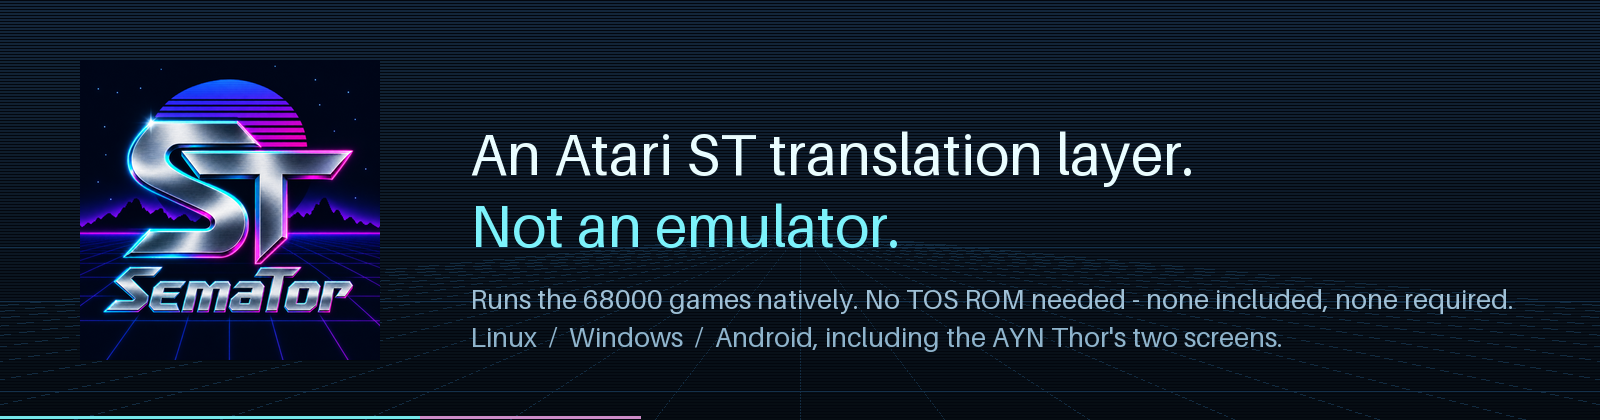
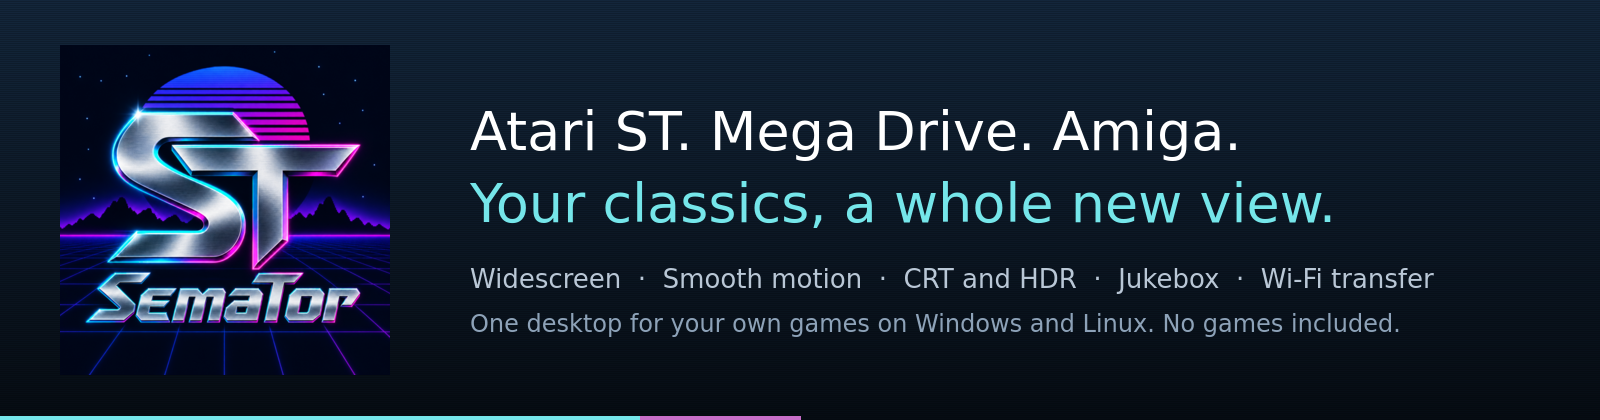
Refresh the GitHub front page: Atari ST, Mega Drive and Amiga, fresh screenshots

diff --git a/README.md b/README.md
@@ -2,163 +2,100 @@
 
 # SemaTor
 
-**Atari ST games. A whole new view.**
+**Atari ST, Mega Drive and Amiga. Your classics, a whole new view.**
 
-Play your Atari ST favourites on **Windows and Linux** with **widescreen enhancements, smooth motion, CRT bezels, Auto HDR and run-ahead**. Bring your own game disks; no Atari TOS ROM is required. Choose enhancements per game, save your progress and jump back in. Feature support varies by game, disk edition and display hardware.
+SemaTor is one desktop for your own retro games on **Windows and Linux**. It runs **Atari ST** games, **Mega Drive / Genesis** games (SemaDrive) and, as an experimental preview, **Amiga** games (SemaBench). Many games get optional enhancements: **widescreen, smooth motion at your screen's refresh rate, sharper 3D, CRT looks and HDR**. Every enhancement starts off, is remembered per game, and the original game is always one switch away.
+
+Bring your own games. None are included, and no Atari TOS ROM or Amiga Kickstart ROM file is needed. Feature support varies by game, edition and display hardware.
 
 Created by David Baron with AI assistance in development, research, documentation and this website.
 
 [Download the public preview](https://github.com/SirBaron/SemaTor/releases) · [Website](https://sirbaron.github.io/SemaTor/) · [Discord](https://discord.gg/DdHfSGrdFc) · [YouTube](https://www.youtube.com/@SemaTorST) · [Report a problem](https://github.com/SirBaron/SemaTor/issues)
 
-**1.1.611 gives Wi-Fi sharing a movable, resizable desktop window, clear collection filters, enhanced-game selection and explicit save-conflict choices. Phones retain the full-screen flow.** This repository hosts the website, public documentation and issue tracker. SemaTor's source is private.
+**1.1.611 public preview: Windows x64, Linux x86-64 and Linux ARM64.** This repository holds the website, public documentation and issue tracker. SemaTor's source is private. See the [release notes](./CHANGELOG.md) for what changed and the known limits.
 
-**1.1.611 puts Wi-Fi sharing in a movable, resizable desktop window with matching colors, visible device scanning and Scan now. Phones retain the full-screen flow.** Android builds remain private tests; no physical-device validation is claimed.
+![SemaOS, the Atari ST desktop, with a game's Details page](./semaos-desktop.png)
+*SemaOS on the Atari ST home. Your own disks wear handwritten labels; no games are bundled.*
 
-**Updating:** in SemaOS, the button at the top right of the menu bar shows where you are - green **Up to date**, or gold **Update available** when a new SemaTor is out. Select it to download (with progress), then **Install update and restart**. The classic library has the same button in its header, and **Library Settings → Updates** for the daily check. Signed Linux/Windows updates preserve your games, saves, settings and custom artwork. GitHub downloads remain available. Version 1.1.604 adds a larger SemaBench theme package; update from 1.1.603 for the theme bundle. Users on older versions can install the full public-preview ZIP and keep their User folder. The optional Dungeon Master artwork add-on is separate.
+## Three systems, one home
 
-[Browse every current game enhancement](https://sirbaron.github.io/SemaTor/games/index.html) — searchable by game and feature, with cheats kept separate.
+Atari ST, Mega Drive and Amiga share one app. Each has its own desktop and look, and all share the same library, Jukebox, saved games, notes and Wi-Fi transfer. The app reopens the desktop you used last.
 
-## Made for playing
+| Atari ST (SemaOS) | Mega Drive (SemaDrive) | Amiga (SemaBench preview) |
+| --- | --- | --- |
+| ![Atari ST desktop](./home-atari-st.png) | ![Mega Drive desktop](./home-mega-drive.png) | ![Amiga desktop](./home-amiga.png) |
+| The original. No TOS ROM needed. | Cartridges, with a coast or night scene. | An Amiga 500 with our own Kickstart replacement. Experimental: many games run, many do not yet. |
 
-- **See more:** game-specific widescreen and ultrawide views, up to 32:9 where supported, with FIT adapting within each profile’s limits.
-- **Smoother action:** dedicated smooth motion in supported games, plus frame generation and run-ahead options.
-- **Make it look yours:** CRT bezels, scanlines, glow, Super ST colour and Auto HDR on compatible Vulkan/HDR setups.
-- **Keep your place:** save states, rewind, per-game settings and a searchable library with editions grouped under their game.
+[More about SemaDrive](https://sirbaron.github.io/SemaTor/semadrive.html) · [More about SemaBench](https://sirbaron.github.io/SemaTor/amiga.html)
 
-SemaOS is the built-in library and desktop interface inside SemaTor. Its Creator suite connects game building, pixel art, music, samples and programming. [Explore the Creator tools](https://sirbaron.github.io/SemaTor/creator.html) — see what you can make and how to build a native ST/STE game disk.
+## Enhanced games
 
-## Highlights and recent changes
+Enhancements are made game by game and checked against the original. A picture option never changes the game's logic or sound.
 
-**1.1.544: the expanded SemaOS studio.** Paint adds a subtle grid, snap, selections, transforms and supported artwork editing into a separate disk copy. Maker saves editable projects with their assets. Explorer, Notes, Viewer and Workshop gain practical editing and navigation features, with save reliability and layouts reviewed in both themes.
+- **Widescreen:** real extra playfield, never a stretched picture. 16:9, 21:9 and up to 32:9 where the game allows it; fixed screens stay 4:3.
+- **Smooth motion:** extra pictures between the game's own updates, matched to your display's refresh rate in supported games, plus frame generation and run-ahead.
+- **Sharper 3D:** supported 3D games are redrawn on your graphics card at up to 4x resolution, with anti-aliasing and farther draw distance.
+- **CRT and HDR:** bezels, scanlines, phosphor glow, and Auto HDR on compatible Vulkan/HDR setups.
+- **Keep your place:** save states, rewind and per-game settings.
 
-**1.1.536: more disks run.** Damaged first file tables, boot-sector disk shapes, menu games loaded as on an ST, keyboard-check timing, and save states that put a game's second disk back by themselves.
+| | |
+| --- | --- |
+| ![Turrican II in widescreen](./enhanced-turrican-2-widescreen.png) | ![Vroom with a CRT bezel](./enhanced-vroom-crt.png) |
+| *Turrican II (ST), widescreen.* | *Vroom (ST), CRT bezel.* |
+| ![Starglider at 4x resolution](./enhanced-starglider-4x.png) | ![Sonic the Hedgehog in widescreen on Mega Drive](./enhanced-sonic-widescreen.png) |
+| *Starglider (ST), 4x resolution with anti-aliasing.* | *Sonic the Hedgehog (Mega Drive), widescreen.* |
 
-**1.1.535: 99 profiles for 75 games.** Twelve new profiles for more versions of the profiled games, folder-exact program starts, lettered disk sets that change by themselves, and save states that say which disk they need.
+[Browse every current game enhancement](https://sirbaron.github.io/SemaTor/games/index.html), searchable by game and feature, with cheats kept separate. Screenshots are real captures from the app; the pictures are the games' own and may be shown at a different size.
 
-**1.1.534: fixes.** Profile options beyond the 16th work, programs chosen from SemaOS find their files, profiles found through a launcher wait for the game, Out Run loads its title in 15 seconds and keeps widescreen under its menu.
+## Jukebox
 
-**Super ST colour and frame generation everywhere.** Super ST colour shows a game at 2x-4x its pixel count with smooth shades and sharp outlines; frame generation now works at any picture size - widescreen views, medium and high resolution, opened borders - including NVIDIA optical flow. Auto HDR for the CRT cabinet.
+One music player for all three systems: Atari ST (YM/SNDH), Mega Drive cartridges and Amiga disks and modules. Browse and search, shuffle, keep favourites, watch the visualiser, or minimise it into the menu bar. Nothing is bundled: it plays music found on the disks, cartridges and files you add. [See what is supported](https://sirbaron.github.io/SemaTor/jukebox.html).
 
-**Profiles for supported games and disk editions.** Out Run gets widescreen and smooth 3D; [see every profile and the disk it was made for](https://sirbaron.github.io/SemaTor/games/profiles.html). When a game has several versions, SemaTor starts the one its profile was made for.
+![The Jukebox on the Mega Drive desktop](./jukebox.png)
+*The Jukebox on the Mega Drive desktop, with the example library from the screenshots.*
 
-**Create on the ST.** SemaPaint, the Maker (your own Atari ST intro or game disk), the Code Reader, a Hardware Check and SemaSynth export - plus a GEM-style look for SemaOS.
+## Wi-Fi transfer
 
-**SemaOS with a gamepad.** The D-pad moves a focus over the whole desktop - icons, menus, buttons, games - A opens or starts, B goes back, X shows details, Y favourites, LB / RB switch windows, Start opens the menu.
+Send games and their saves from one desktop to another over your own network. (Android transfer is part of the private Android testing.) Pair by comparing six digits on both screens, pick games with filters (or all enhanced games), and choose what happens to saves that already exist. On the desktop it is a normal movable window, so the rest of SemaOS stays usable. Transfers are verified and resumable, but they are not encrypted: use a trusted network.
 
-**A desktop that keeps up.** Windows minimise to the taskbar and the Jukebox becomes a glowing mini player in the menu bar; the button at the top right says when a new SemaTor is out and installs it; each game window keeps its own order; many SemaOS fixes.
+![Wi-Fi Transfer window in SemaOS](./wifi-transfer.png)
+*Wi-Fi Transfer as a SemaOS window, looking for a nearby device.*
 
-**Every game in one place.** Details shows how often and how long you have played, your saves with their pictures, your notes, the enhancements and the game's music; new shelves list what was added recently, what you play most and what you have never tried. Report a problem from any game's menu, and a hint appears when a game waits on its title for one particular input.
+## SemaOS
 
-**Most ST disks now run.** Games, demos and menu disks that never started do now. SemaTor's start-up follows TOS's own: the AUTO folder on every boot, programs where TOS loads them, the boot sector's stack, the reset vector. The 68000 runs to the ST's bus timing, so counted delays, raster effects and opened borders land where they should. SemaTor is tested against a library of over 14,000 disks.
+SemaTor starts in **SemaOS**, a desktop of its own with Games, Enhanced, Favourites, Recent, Continue, Drives, Jukebox, Pictures, Notes and more. Use the mouse, the keyboard or a gamepad. Details shows play time, saves with pictures, notes, the profile and its enhancements and music for each game.
 
-**SemaOS is how SemaTor starts.** A desktop of its own opens first, with Games, Drives, Music, Pictures, Notes and more. Prefer the classic library? Switch under Settings.
-
-**Music on the ST, old and new.** The Jukebox browses the SNDH archive and plays tunes live, with channel scopes and favourites. SemaSynth is a music studio that makes what real ST tunes make: play it from a MIDI keyboard and save your songs as real SNDH tunes.
-
-**Your disks, labelled.** Handwritten labels like a copy from a mate, covers for every disk of a game, and a card size you choose.
-
-**SDL3, carried with it.** Nothing to install for graphics or sound on Linux. On Wayland the window no longer freezes when it is covered.
-
-**Optional Dungeon Master artwork:** the artwork add-on is shared on the [SemaTor Discord](https://discord.gg/DdHfSGrdFc). Extract its ZIP into the SemaTor application folder. It creates `Add-ons/dungeon-master`. Restart and enable Native Party Interface under F12 → Enhancements. Main program downloads omit this artwork. Existing artwork installations remain supported.
-
-Dungeon Master's optional native interface remains available for wider testing and is still experimental.
-
-Read the [release notes and testing guidance](./CHANGELOG.md).
-
-## SemaOS - a desktop for your ST collection
-
-![SemaOS](./semaos-desktop.png)
-*SemaOS with a Games window, Details of the selected game and the Jukebox minimised into the menu bar. Your own disks are shown with SemaTor's handwritten labels; the notes and play statistics here are sample data. No games are bundled.*
-
-SemaTor starts in **SemaOS**, a desktop of its own in the spirit of the ST. Everything is an icon, a window or a menu away - with the mouse, the keyboard or a gamepad.
-
-- **Your games, your order.** Games, Enhanced, Favourites, Compilations and Recent windows. Type to search; each window keeps its own order - name, year, publisher, recently played, recently added, most played or never played. Disks wear handwritten labels or their covers, at a card size you choose (- / +).
-- **Details for every game.** Times played and time spent, your saves with their pictures (click one to carry on), your notes, the SemaTor profile and its enhancements, and the game's music - with Play, Continue, Notes, Music and Report a problem as buttons. Click the **i** on a selected game.
-- **Continue** lists every game you have saved, newest first, with a picture of the save.
-- **Drive A and Drive B.** Drag a game onto a drive, look inside the disk, start any program on it, or add a second disk.
-- **Jukebox.** Play supported music from inserted ST disks, the SNDH archive and your verified Turrican II Amiga disk. Imported tracks stay available after ejecting the disk. Keep favourites or minimise to the menu-bar player with its visualiser, play, pause and stop. Amiga imports currently support the verified Turrican II IPF edition or a ZIP containing it.
-- **SemaSynth.** A three-channel music studio that makes what real ST tunes make. Play it from a MIDI keyboard and save your songs as real SNDH tunes.
-- **Notes, Pictures, Explorer, Documents, Disk Workshop, Program Lab.** Your notes for each game, your screenshots, the folders on your computer, the text files on your disks, a disk editor that copies files onto and off .ST images (the original is never changed), and a 68000 assembler whose program goes straight onto a new disk.
-- **Find (Ctrl+F)** searches windows, settings, games, your SemaSynth songs, the Jukebox and the SNDH archive at once.
-- **Make it yours.** Wallpapers (the retro scene is the default), accent colours, icon sizes, disk labels, a screensaver. Windows snap, maximise and minimise to the taskbar.
-- **A gamepad is enough.** The D-pad moves a focus ring over anything that can be clicked: A opens or starts, B goes back, X shows Details, Y favourites, LB / RB switch windows, Start opens the menu, Back opens Find.
-- **What's new** appears once after an update, and offers your previous look back if an update changed SemaOS's defaults.
-
-Prefer the classic library? **Settings → Start in** chooses SemaOS or the library.
-
-![What's new in SemaOS](./semaos-whats-new.png)
-*What's new, shown once after an update.*
-
-## Game guides
-
-Browse the [Enhanced Games overview](https://sirbaron.github.io/SemaTor/games/) for guides to the best-known enhanced games, and the [current profile enhancement catalogue](https://sirbaron.github.io/SemaTor/games/profiles.html). Each guide lists the game's options, its original controls and an interactive SemaTor controller showing the default mappings. Saved remaps take priority.
-
-## The classic library
-
-The library SemaTor had before SemaOS is still here. Browse covers or lists, search your collection, keep favourites and return to recently played games. Supported titles stand out with a gold **ENHANCED** badge. Add game folders and choose custom covers using a file browser; fetch artwork for one game or the whole library.
-
-![Desktop library](./desktop-library.png)
-*Desktop UI example rendered with sample entries and placeholder covers; no games are bundled.*
-
-![Ultrawide library](./desktop-ultrawide.png)
-*Room for a larger collection on a wider display.*
-
-## Make it your ST
-
-- **Enhanced titles:** per-game options for supported games, including native improvements, sound options and cheats where available.
-- **Picture controls:** sharp pixels, simple filters and CRT presets with controls for the look of the screen and bezel.
-- **Smoother motion:** optional frame generation, with availability and results depending on the graphics backend, GPU and driver.
-- **Pick up where you left off:** four manual save slots with previews, plus rewind and session features where supported.
-- **A more comfortable desktop:** F11 Session and F12 Settings share a compact two-pane menu at the bottom of the game. Choose its physical size separately from text size. Use Back/View + Y for Session or Back/View + Start for Settings; LB/RB switch tabs, B goes back and Start resumes. Adjust picture settings while watching the game. Public builds include basic diagnostics and an optional local support report.
-- **Your own disk collection:** ST, IMG, MSA, full-sector DIM, STX and supported disk images inside ZIP archives.
-
-![Session controls](./session-overview.png)
-*Session menu with example empty save slots. LB/RB switch between Session and Settings.*
-
-![Settings](./settings-overview.png)
-*F12 settings in the public build.*
+SemaOS also has creative tools: SemaPaint, SemaSynth, Maker and a 68000 Program Lab. [Explore the Creator tools](https://sirbaron.github.io/SemaTor/creator.html) to see how to build a native ST/STE game disk.
 
 ## Install the desktop preview
 
 | Platform | Release attachment | Start here |
 | --- | --- | --- |
-| Linux x86-64 | `SemaTor-1_1_608-linux-public-preview.zip` | Extract, open a terminal in that folder and run `sh install.sh`. The default installation is `~/Games/SemaTor`. |
-| Windows x64 | `SemaTor-1_1_608-windows-public-preview.zip` | Extract the whole ZIP to a writable folder, then run `SemaTor.exe`. Keep `SDL3.dll` beside it. |
-| Linux ARM64 | `SemaTor-1_1_608-linux-aarch64-public-preview.zip` | Extract and run `sh install.sh`; Python 3 is required. |
+| Linux x86-64 | `SemaTor-1_1_611-linux-public-preview.zip` | Extract, open a terminal in that folder and run `sh install.sh`. The default installation is `~/Games/SemaTor`. |
+| Linux ARM64 | `SemaTor-1_1_611-linux-aarch64-public-preview.zip` | Extract and run `sh install.sh`; Python 3 is required. |
+| Windows x64 | `SemaTor-1_1_611-windows-public-preview.zip` | Extract the whole ZIP to a writable folder, then run `SemaTor.exe`. Keep `SDL3.dll` beside it. |
 
-The Linux installer copies the application into its installation folder; it does not rely on a link back to Downloads. Double-clicking a shell script may open an editor, depending on your file manager. Running `sh install.sh` executes it directly. SemaTor carries its own SDL3; Linux needs only Python 3 for the installer.
+SemaTor carries its own SDL3. On Linux you only need Python 3 for the installer. Put your own games in **Games** (Atari ST), **MegaDrive** and **Amiga** beside SemaTor, or add folders from SemaOS. Keep your **Games**, **Media**, **User** and **Add-ons** folders when updating.
 
-**Library maintenance:** Settings → Refresh library (or F5) rechecks your collections. Removing a collection folder removes its entries immediately; your game files stay where they are.
+**Updating:** the button at the top right of the SemaOS menu bar shows **Up to date** or **Update available**. Select it to download, then **Install update and restart**. Signed updates keep your games, saves, settings and custom artwork. GitHub downloads stay available. If an older Windows interface is unreadable, extract the new ZIP over your installation, keeping Games, Media, User and Add-ons.
 
-**Optional drive sounds:** F12 → Sound → ST Drive Sounds adds floppy-drive noise during virtual disk activity. Switch it off there, or adjust Effects / speech volume.
+**Bring your own games.** Atari ST disk images (ST, IMG, MSA, DIM, STX, or inside ZIPs), Mega Drive cartridge images and Amiga ADF/IPF disks. Most ST disks run; if one does not, please report it. This is a preview series: Linux has had hands-on testing; Windows has been built and checked automatically but still needs broader real-machine testing. SemaBench (Amiga) is experimental and its compatibility varies by game.
 
-Keep your **Games**, **Media**, **User** and **Add-ons** folders when updating. Games holds your disk collection, Media holds artwork and runtime resources, and User holds settings and saves. Add your game folders from the library after starting the app.
+The optional Dungeon Master artwork add-on is shared on the [SemaTor Discord](https://discord.gg/DdHfSGrdFc); extract its ZIP into the SemaTor folder. Its native interface is still experimental.
 
-**Bring your own disk images.** No commercial game disk images or Atari TOS ROM are supplied. Most ST disks run; if one does not, please report it. This public release continues the preview series: Linux has received hands-on testing; Windows has been built and checked automatically but still needs broader real-machine testing.
+## Phones and handhelds
 
-## Phone and dual-screen development
+An Android version is in **private testing**. There is no public APK and none is included in the desktop downloads, and no physical-device validation is claimed here. This is how the phone interface looks in development; it may change. Follow Android testing on [Discord](https://discord.gg/DdHfSGrdFc).
 
-Android builds are available only in private testing and are **not included in the desktop downloads**. There is no public APK, and no physical-device validation is claimed here. These development screenshots show the phone library and lower-screen interface; their appearance may change.
-
-![Phone library, development preview](./phone-library.png)
-![AYN Thor lower screen, development preview](./thor-deck.png)
+![Phone interface in development: Atari ST and Mega Drive libraries](./phone-ui.png)
+*Phone interface, development preview, with example library entries.*
 
 ## Help improve compatibility
 
-In SemaOS, right-click a game (or open its Details) and choose **Report a problem**; in the classic library use its action menu or press **U**. Either opens a prefilled GitHub draft. The compatibility notice also offers **Request compatibility check** before launching. You review and submit the draft using your GitHub account; no disks or logs are uploaded automatically.
+In SemaOS, right-click a game (or open its Details) and choose **Report a problem**. It opens a prefilled GitHub draft that you review and submit with your own GitHub account; no disks or logs are uploaded automatically.
 
-Open a [bug or game report](https://github.com/SirBaron/SemaTor/issues). Include the SemaTor version, OS, GPU and driver, game and the disk's name, steps to reproduce, relevant CRT/frame-generation/sound settings, and the last version that worked if known. Screenshots help. An optional report is available under **F12 → Support & diagnostics**; review it before attaching. Please do not upload game disks or ROMs.
+Open a [bug or game report](https://github.com/SirBaron/SemaTor/issues). Include the SemaTor version, OS, GPU and driver, the game and the disk's name, steps to reproduce, relevant CRT, smooth-motion and sound settings, and the last version that worked if you know it. Screenshots help. An optional local report is under **F12 → Support & diagnostics**; review it before attaching. Please do not upload game disks or ROMs.
 
 ## Credits and licence
 
-SemaTor © 2026 David Baron. All rights reserved; see [LICENSE](./LICENSE). Third-party notices are included under `Media/licenses` in the public builds. Atari and Atari ST are trademarks of their respective owners. SemaTor is not affiliated with Atari.
-
-### Source reconstruction
-
-F12 > CRT & picture > Simple screen filters includes optional per-game dither blending, gentle gradients and corner smoothing. These process completed source pictures before frame generation and work independently of CRT mode. Split comparison temporarily suspends interpolation. Effects default off. Xorg reconstructs GPU endpoints and uses RGB blending for its CPU fallback when enabled. Dungeon Master reconstructs the guest source; native HD artwork stays separate.
-
-Drive B is independent of A: use **Session & exit** to insert/eject a companion, or `--disk-b FILE` to mount another image. **Sound > MIDI synthesis** enables the optional procedural synth; no external sound bank is required. Both colour reconstruction and MIDI default off.
-
-## SemaDrive — Mega Drive & Genesis
-
-SemaTor 1.1.597 adds verified Mega Drive gameplay enhancements with authored scene bounds, independent music and effects levels, and Hunter, Simulcra and Virus GPU presentation. Virus includes widescreen and selectable draw distance. Put your own cartridge images in `MegaDrive` beside SemaTor. [Explore SemaDrive](https://sirbaron.github.io/SemaTor/semadrive.html). No games are bundled.
+SemaTor © 2026 David Baron. All rights reserved; see [LICENSE](./LICENSE). Third-party notices are included under `Media/licenses` in the public builds. Atari, Atari ST, Sega, Mega Drive, Genesis and Amiga are trademarks of their respective owners. SemaTor is not affiliated with or endorsed by them.
